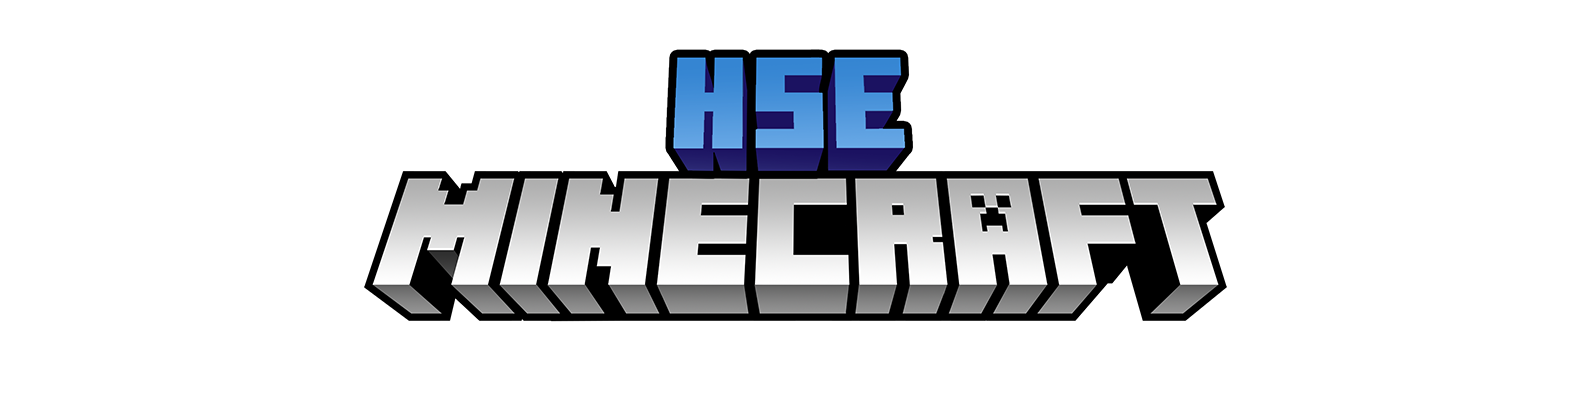
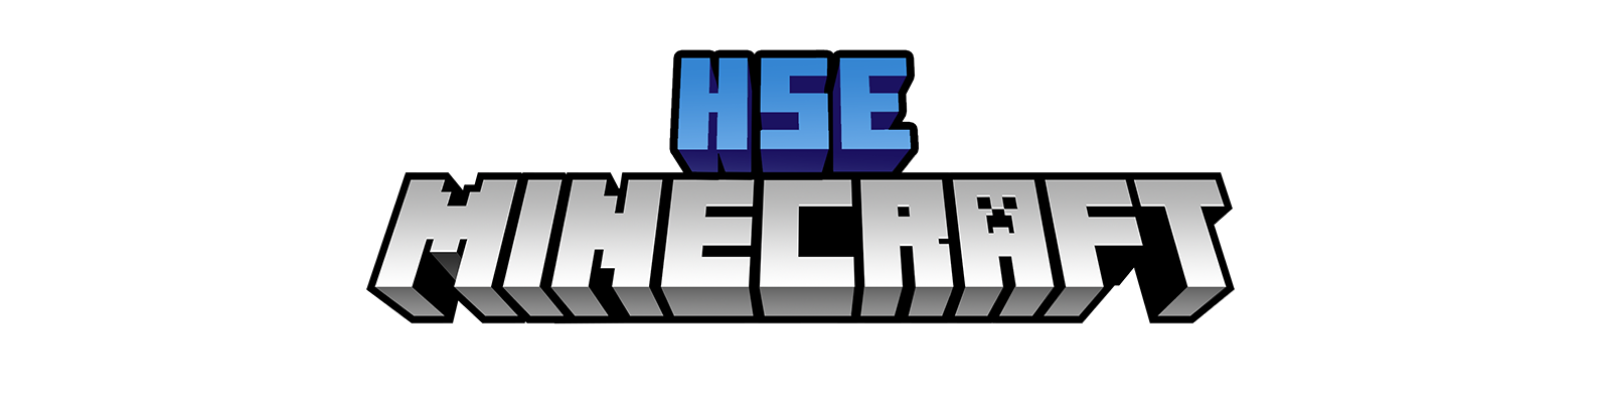
Messing with cards and other styles

diff --git a/index.html b/index.html
@@ -10,13 +10,13 @@
   <link rel="stylesheet" href="https://stackpath.bootstrapcdn.com/bootstrap/4.5.2/css/bootstrap.min.css"
     integrity="sha384-JcKb8q3iqJ61gNV9KGb8thSsNjpSL0n8PARn9HuZOnIxN0hoP+VmmDGMN5t9UJ0Z" crossorigin="anonymous">
 
-  <link rel="stylesheet" type="text/css"
-    href="https://raw.githack.com/hseminecraft/hseminecraft/master/css/sections.css">
-  <!-- <link rel="stylesheet" type="text/css" href="C:\Users\dazra\Desktop\hseminecraft\hseminecraft\css\sections.css"> -->
+  <!-- <link rel="stylesheet" type="text/css"
+    href="https://raw.githack.com/hseminecraft/hseminecraft/master/css/sections.css"> -->
+  <link rel="stylesheet" type="text/css" href="C:\Users\dazra\Desktop\hseminecraft\hseminecraft\css\sections.css">
   <title>HSE Minecraft!</title>
 </head>
 
-<body>
+<body class="page-gradient">
   <!-- NAVBAR -->
   <nav class="navbar sticky-top navbar-expand-lg navbar-light bg-light">
     <a class="navbar-brand" href="#">
@@ -55,13 +55,14 @@
   </nav>
   <!-- MAIN PAGE TITLE-->
   <img
-    src="https://raw.githack.com/hseminecraft/hseminecraft/master/images/banner.png"
+    src="https://rawcdn.githack.com/hseminecraft/hseminecraft/b409682ef71bffb33fb3b5ed00b0e96ddf691039/images/banner.png"
     alt="HSE Minecraft banner" class="main-title-background">
   <!-- MAIN SECTION -->
-  <!-- WHO ARE WE?-->
+
+  <!--ABOUT-->
   <div id="about" class=" d-flex justify-content-start container-xl border-bottom border-dark section-title-container">
     <div class="section-title-background col-">
-      <p class="section-title">Кто мы?</p>
+      <p class="section-title">О нас</p>
     </div>
   </div>
   <section class="container-md">
@@ -75,16 +76,16 @@
       </div>
     </div>
   </section>
-  <!-- WHAT ARE WE?-->
-  <div id="projects"
-    class=" d-flex justify-content-start container-xl border-bottom border-dark section-title-container">
+
+  <!--PROJECTS-->
+  <div id="team" class=" d-flex justify-content-start container-xl border-bottom border-dark section-title-container">
     <div class="section-title-background col-">
-      <p class="section-title">Наши проекты</p>
+      <p class="section-title">Проекты</p>
     </div>
   </div>
   <div class="better-sapcing container-sm">
-    <div class="content-sm d-flex justify-content-center">
-      <div id="carouselExampleCaptions" class="carousel slide d-flex justify-content-center" data-ride="carousel">
+    <div class="content-sm">
+      <div id="carouselExampleCaptions" class="carousel slide carousel-fade" data-ride="carousel">
         <ol class="carousel-indicators">
           <li data-target="#carouselExampleCaptions" data-slide-to="0" class="active"></li>
           <li data-target="#carouselExampleCaptions" data-slide-to="1"></li>
@@ -94,7 +95,7 @@
           <div class="carousel-item active">
             <img
               src="https://rawcdn.githack.com/hseminecraft/hseminecraft/3f7ae9a0cdf56dba4898fad30eacc6a2390ff16c/images/caricino.jpg"
-              class="d-block w-80" alt="Царицыно">
+              class="d-block w-100" alt="Царицыно">
             <div class="carousel-caption d-none d-md-block">
               <p><span class="projects-title-font">Царицыно</span></p>
               <p><span class="projects-font">Реализация парка в игре, проведение экскурсий и концертов онлайн.</span>
@@ -104,7 +105,7 @@
           <div class="carousel-item">
             <img
               src="https://rawcdn.githack.com/hseminecraft/hseminecraft/5b3958123a607cf645cd2a299526412a036d5213/images/tanuki.jpg"
-              class="d-block w-80" alt="Тануки">
+              class="d-block w-100" alt="Тануки">
             <div class="carousel-caption d-none d-md-block">
               <p><span class="projects-title-font">Тануки</span></p>
               <p><span class="projects-font">Строительный конкурс и розыгрыш купонов.</span></p>
@@ -113,7 +114,7 @@
           <div class="carousel-item">
             <img
               src="https://rawcdn.githack.com/hseminecraft/hseminecraft/d124aae8b9718ffd21b1bf32b1606a411bd05dae/images/geekpicnic.jpg"
-              class="d-block w-80" alt="Geek Picnic">
+              class="d-block w-100  " alt="Geek Picnic">
             <div class="carousel-caption d-none d-md-block">
               <p><span class="projects-title-font">Geek Picnic</span></p>
               <p><span class="projects-font">Лекция о социальном дистанцировании и конкурс на строительство эко-домов
@@ -132,8 +133,64 @@
       </div>
     </div>
   </div>
+
+  <!--TEAM-->
+  <div id="team" class="d-flex justify-content-start container-xl border-bottom border-dark section-title-container">
+    <div class="section-title-background col-">
+      <p class="section-title">Команда</p>
+    </div>
+  </div>
+  <section class="container-md">
+    <div class="row">
+      <div class="col-2">
+      </div>
+      <div class="col-8 main-background ">
+        <div class="card mb-3" style="max-width: 540px;">
+          <div class="row no-gutters">
+            <div class="col-md-4">
+              <img src="..." class="card-img" alt="...">
+            </div>
+            <div class="col-md-8">
+              <div class="card-body">
+                <h5 class="card-title">Азиз Тулаганов</h5>
+                <p class="card-text">Руководитель, старший менеджер проектов, старший администратор сервера</p>
+              </div>
+            </div>
+          </div>
+        </div>
+        <div class="card mb-3" style="max-width: 540px;">
+          <div class="row no-gutters">
+            <div class="col-md-4">
+              <img src="..." class="card-img" alt="...">
+            </div>
+            <div class="col-md-8">
+              <div class="card-body">
+                <h5 class="card-title">Настя Артюшина</h5>
+                <p class="card-text">Менеджер проектов, Администратор сервера</p>
+              </div>
+            </div>
+          </div>
+        </div>
+        <div class="card mb-3" style="max-width: 540px;">
+          <div class="row no-gutters">
+            <div class="col-md-4">
+              <img src="..." class="card-img" alt="...">
+            </div>
+            <div class="col-md-8">
+              <div class="card-body">
+                <h5 class="card-title">Рома Курочкин</h5>
+                <p class="card-text">Руководитель, старший менеджер проектов</p>
+              </div>
+            </div>
+          </div>
+        </div>
+      </div>
+    </div>
+  </section>
+
   <!--PARTNERS-->
-  <div id="partners" class="d-flex justify-content-end container-xl border-bottom border-dark section-title-container">
+  <div id="partners"
+    class="d-flex justify-content-start container-xl border-bottom border-dark section-title-container">
     <div class="section-title-background col-">
       <p class="section-title">Партнеры</p>
     </div>
@@ -146,26 +203,39 @@
         <div class="card d-flex justify-content-end" style="width:min-content; width:30%">
           <img
             src="https://rawcdn.githack.com/hseminecraft/hseminecraft/bda92fec9859854d35e416fd6348e38426923b17/images/aternos_logo.png"
-            class=" mx-auto d-bloc " alt="aternos" style="width:min-content">
-          <div class="card-body">
-            <h5 class="card-title">Aternos</h5>
-            <p class="card-text">Some quick example text to build on the card title and make up the bulk of the card's
-              content.</p>
+            class=" mx-auto d-bloc d-flex justify-content-center " alt="aternos">
+          <div class="partner-title">
+            <h5>Aternos</h5>
           </div>
-          <ul class="list-group list-group-flush">
-            <li class="list-group-item">Cras justo odio</li>
-            <li class="list-group-item">Dapibus ac facilisis in</li>
-            <li class="list-group-item">Vestibulum at eros</li>
-          </ul>
         </div>
       </div>
     </div>
   </section>
+
+  <!--Членство-->
+  <div id="membership"
+    class=" d-flex justify-content-start container-xl border-bottom border-dark section-title-container">
+    <div class="section-title-background col-">
+      <p class="section-title">Членство</p>
+    </div>
+  </div>
+  <section class="container-md">
+    <div class="row">
+      <div class="col-2">
+      </div>
+      <div class="col-8 main-background">
+        <p class="description">Minecraft НИУ ВШЭ - это проект, который позволит объединить всех студентов Вышки в одной
+          из самых популярных
+          многопользовательских игр последнего десятилетия - Minecraft.</p>
+      </div>
+    </div>
+  </section>
+
   <!--CONTACTS-->
   <div id="contacts"
     class="d-flex justify-content-start container-xl border-bottom border-dark section-title-container">
     <div class="section-title-background col-">
-      <p class="section-title">Где нас найти?</p>
+      <p class="section-title">Контакты</p>
     </div>
   </div>
   <section class="container-md d-flex justify-content-around">

diff --git a/css/sections.css b/css/sections.css
@@ -2,6 +2,10 @@
     padding: 10px;
 }
 
+.page-gradient {
+    background: linear-gradient(0deg, rgba(39, 75, 153, 1) 0%, rgba(57, 149, 226, 1) 100%)!important;
+}
+
 .main-title-background {
     width: 100%;
     margin-bottom: 25px;
@@ -64,6 +68,13 @@
     padding: 0px!important;
     text-align: center;
     text-decoration: none;
-    filter: invert(100%);
+    /* filter: invert(100%); */
     margin: 50px;
+}
+
+.partner-title{
+    text-align: center!important;
+}
+.remove-padding{
+    padding: 0!important;
 }
